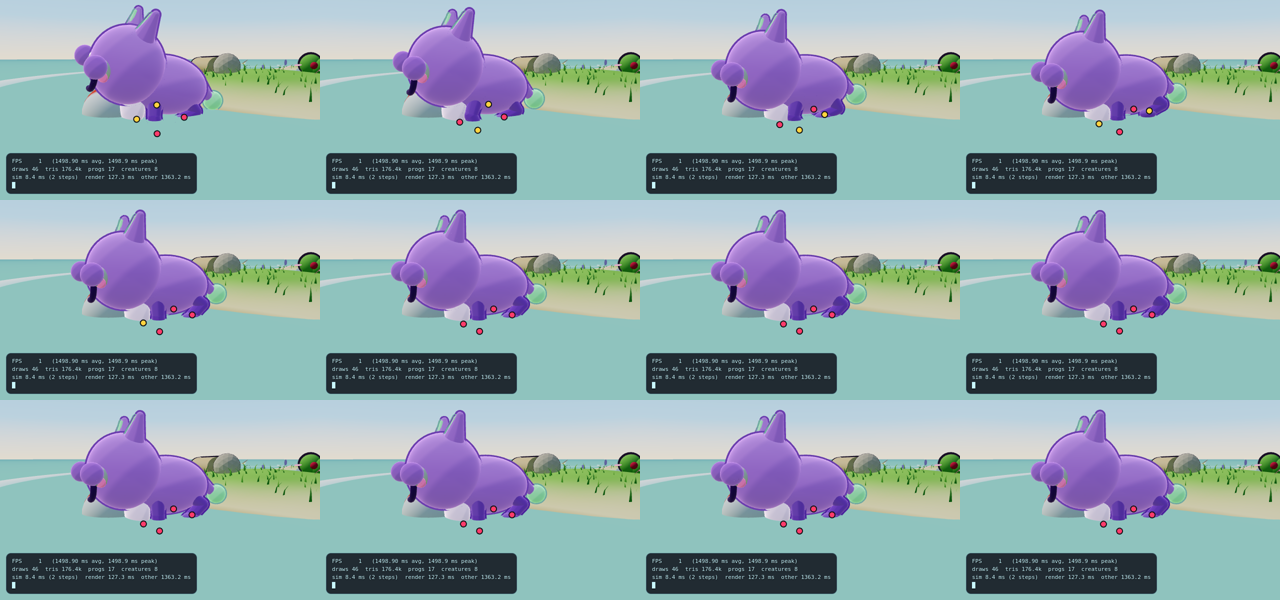
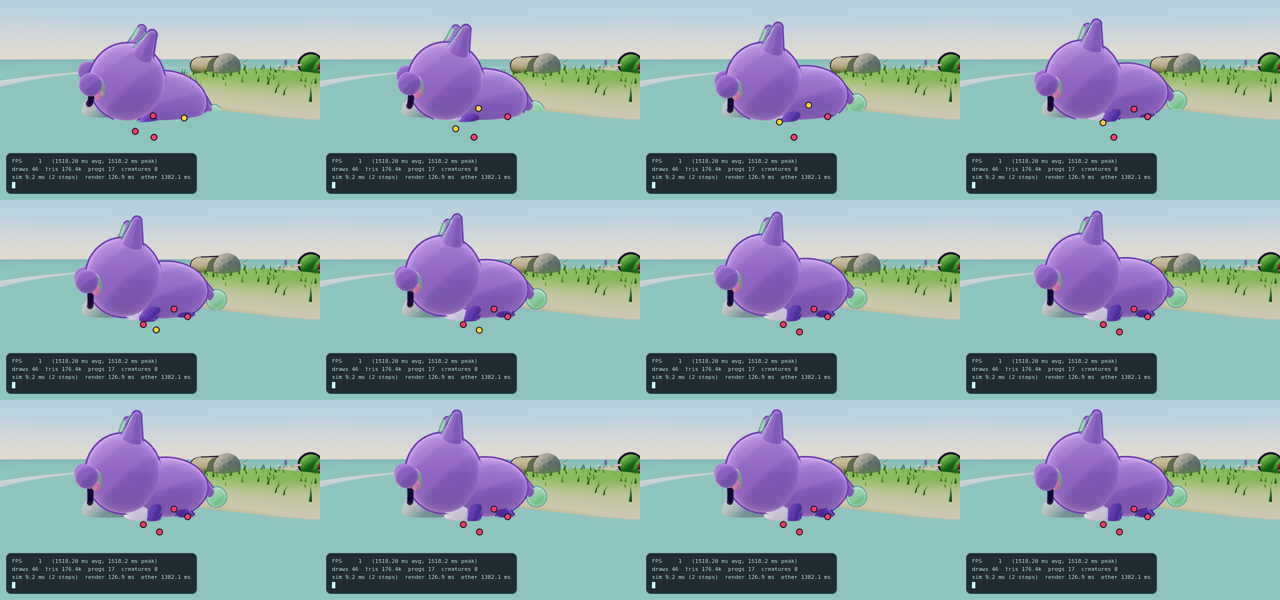
watch: 2026-10-02 09:22:03

diff --git a/watch/REPORT.md b/watch/REPORT.md
@@ -1,47 +1,51 @@
 ```
 # WATCH REPORT
-date 2026-10-02T05:10:32.900Z
-badge build v12 · 2026-10-02 09:09
+date 2026-10-02T05:21:00.158Z
+badge build v13 · 2026-10-02 09:19
 
 ## PEDESTAL
   quat 8.88e-16 pos 0.00e+0 -> PASS
 
 ## STRAIGHT WALK PROBE (8 s each)
-  PIP    slip 7.04 cm | overstretch 207/480 | speed 0.873 | freq 3 Hz
-  MOCHI  slip 6.54 cm | overstretch 388/480 | speed 0.875 | freq 3 Hz
+  PIP    slip 3.57 cm | overstretch 5/480 | speed 0.873 | freq 3 Hz
+  MOCHI  slip 8.54 cm | overstretch 46/480 | speed 0.875 | freq 3 Hz
   BOP    slip 0.00 cm | overstretch 0/480 | speed 2.762 | freq 2.5 Hz
-  ZIK    slip 1.68 cm | overstretch 105/480 | speed 1.128 | freq 3 Hz
+  ZIK    slip 1.17 cm | overstretch 1/480 | speed 1.128 | freq 3 Hz
 
 ## JOINT PROBE (20 s)
-  PIP    187.59 rad/s on hip_r [FORCED STEP]
-  MOCHI  127.38 rad/s on knee_br [FORCED STEP]
-  ZIK    82.18 rad/s on knee_mid_r [FORCED STEP]
+  PIP    40.00 rad/s on knee_r [FORCED STEP]
+  MOCHI  40.00 rad/s on knee_fr [FORCED STEP]
+  ZIK    40.00 rad/s on knee_front_r [FORCED STEP]
 
 ## FREE-RUNNING WORLD (30 s, all creatures, real behaviour)
   creatures 8 | overlap frames 0/900 | closest pair 1.20x personal space
-  PIP    stances 188 | slip avg 2.57 cm worst 22.08 cm | stances >1cm 106 | max joint 84.1 rad/s on hip_l | frames >20 rad/s 227 | moving 50%
-  MOCHI  stances 239 | slip avg 4.10 cm worst 31.89 cm | stances >1cm 133 | max joint 55.2 rad/s on knee_br | frames >20 rad/s 116 | moving 18%
+  PIP    lifts: beat 83 reach 41 strain 143 catch-up 33 | max planted IK miss 32.94 cm | crouch 12.7 cm
+  MOCHI  lifts: beat 25 reach 42 strain 201 catch-up 102 | max planted IK miss 28.08 cm | crouch 4.0 cm
+  BOP    lifts: beat 0 reach 0 strain 0 catch-up 0 | max planted IK miss 0.00 cm | crouch 0.0 cm
+  ZIK    lifts: beat 225 reach 71 strain 176 catch-up 87 | max planted IK miss 3.85 cm | crouch 3.6 cm
+  PIP    stances 300 | slip avg 1.05 cm worst 18.17 cm | stances >1cm 87 | max joint 83.8 rad/s on body | frames >20 rad/s 101 | moving 50%
+  MOCHI  stances 370 | slip avg 1.27 cm worst 20.74 cm | stances >1cm 117 | max joint 40.0 rad/s on ankle_fl | frames >20 rad/s 80 | moving 18%
   BOP    stances 0 | slip avg 0.00 cm worst 0.00 cm | stances >1cm 0 | max joint 12.4 rad/s on head | frames >20 rad/s 0 | moving 45%
-  ZIK    stances 400 | slip avg 1.67 cm worst 9.51 cm | stances >1cm 141 | max joint 46.2 rad/s on knee_mid_l | frames >20 rad/s 82 | moving 40%
+  ZIK    stances 559 | slip avg 0.31 cm worst 5.77 cm | stances >1cm 23 | max joint 40.0 rad/s on knee_mid_r | frames >20 rad/s 34 | moving 40%
 
 ## VERDICT
-  PIP    feet SLIDE (worst 22.1 cm, 56% of steps) | knees SNAP (188 rad/s)
-  MOCHI  feet SLIDE (worst 31.9 cm, 56% of steps) | knees SNAP (127 rad/s)
+  PIP    feet SLIDE (worst 18.2 cm, 29% of steps) | knees SNAP (84 rad/s)
+  MOCHI  feet SLIDE (worst 20.7 cm, 32% of steps) | knees SNAP (40 rad/s)
   BOP    feet no steps seen | knees OK
-  ZIK    feet SLIDE (worst 9.5 cm, 35% of steps) | knees SNAP (82 rad/s)
+  ZIK    feet SLIDE (worst 5.8 cm, 4% of steps) | knees SNAP (40 rad/s)
   overlap NONE
   console errors 0
 
 ## GATES
-  FAIL  PIP worst slip <= 2 cm         22.08 cm
-  FAIL  PIP steps >1 cm <= 2%          56.4%
-  FAIL  PIP joint <= 20 rad/s          84.1 on hip_l
-  FAIL  MOCHI worst slip <= 2 cm       31.89 cm
-  FAIL  MOCHI steps >1 cm <= 2%        55.6%
-  FAIL  MOCHI joint <= 20 rad/s        55.2 on knee_br
-  FAIL  ZIK worst slip <= 2 cm         9.51 cm
-  FAIL  ZIK steps >1 cm <= 2%          35.3%
-  FAIL  ZIK joint <= 20 rad/s          46.2 on knee_mid_l
+  FAIL  PIP worst slip <= 2 cm         18.17 cm
+  FAIL  PIP steps >1 cm <= 2%          29.0%
+  FAIL  PIP joint <= 20 rad/s          83.8 on body
+  FAIL  MOCHI worst slip <= 2 cm       20.74 cm
+  FAIL  MOCHI steps >1 cm <= 2%        31.6%
+  FAIL  MOCHI joint <= 20 rad/s        40.0 on ankle_fl
+  FAIL  ZIK worst slip <= 2 cm         5.77 cm
+  FAIL  ZIK steps >1 cm <= 2%          4.1%
+  FAIL  ZIK joint <= 20 rad/s          40.0 on knee_mid_r
   PASS  overlap frames = 0             0
   PASS  console errors = 0             0
 ```
